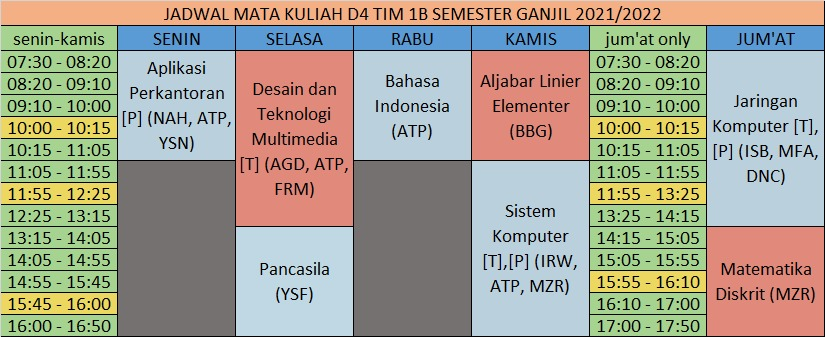
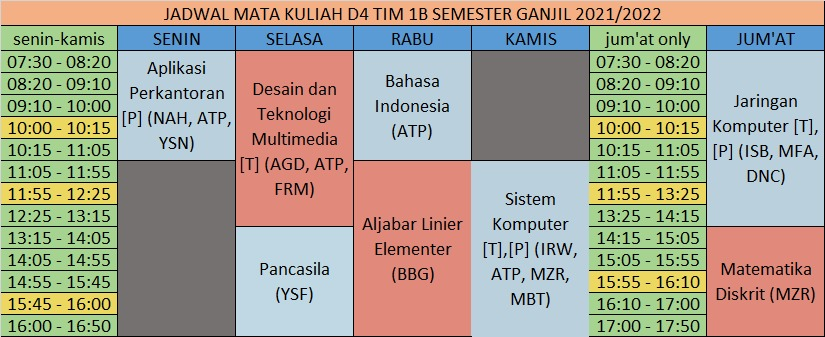
siskom

Changed region(s): [[0.4242, 0.1484, 0.7273, 1.0]]

diff --git a/docusaurus.config.js b/docusaurus.config.js
@@ -1,6 +1,7 @@
 const lightCodeTheme = require('prism-react-renderer/themes/github');
 const darkCodeTheme = require('prism-react-renderer/themes/dracula');
-
+const math = require('remark-math');
+const katex = require('rehype-katex');
 // With JSDoc @type annotations, IDEs can provide config autocompletion
 /** @type {import('@docusaurus/types').DocusaurusConfig} */
 (module.exports = {
@@ -20,6 +21,8 @@ const darkCodeTheme = require('prism-react-renderer/themes/dracula');
       /** @type {import('@docusaurus/preset-classic').Options} */
       ({
         docs: {
+          remarkPlugins: [math],
+          rehypePlugins: [katex],
           sidebarPath: require.resolve('./sidebars.js'),
           routeBasePath:'/',
           // Please change this to your repo.
@@ -71,4 +74,11 @@ const darkCodeTheme = require('prism-react-renderer/themes/dracula');
         darkTheme: darkCodeTheme,
       },
     }),
+    stylesheets: [
+      {
+          href: "https://cdn.jsdelivr.net/npm/katex@0.13.11/dist/katex.min.css",
+          integrity: "sha384-Um5gpz1odJg5Z4HAmzPtgZKdTBHZdw8S29IecapCSB31ligYPhHQZMIlWLYQGVoc",
+          crossorigin: "anonymous",
+      },
+  ],
 });

diff --git a/docs/delvin.md b/docs/delvin.md
@@ -17,13 +17,14 @@ D4 Teknik Informatika Multimedia
 |   M. Farman   Andrijasa, S.Kom., M.Kom.   |  MFA  |  https://wa.me/62811557369  |      KAJUR      |
 |         Irwansyah,   S.Kom, M.Cs          |  IRW  | https://wa.me/6281349613941 |     SEKJUR      |
 |      Anton   Topadang, S.Kom., M.Cs.      |  ATP  | https://wa.me/6281392407411 |   Kaprodi TIM   |
-|     Noor Alam   Hadiwijaya, ST,.M.Cs.     |  NAH  | https://wa.me/6282157147850 |   Kaprodi TI    |
+|     Noor Alam   Hadiwijaya, ST,.M.Cs.     |  NAH  | https://wa.me/6285820739768 |   Kaprodi TI    |
 |      Bambang   Cahyono, S.Pd., M.Kom      |  BBG  | https://wa.me/6285250675384 |   Kaprodi TK    |
 | Farindika   Metandi, BCompSc., MM., M.Cs. |  FRM  | https://wa.me/6285246023808 | Kalab Software  |
 |       Yusni Nyura,   S.Kom., M.Kom        |  YSN  | https://wa.me/6281350431910 |      Dosen      |
 |            Agusdi   Syafrizal             |  AGD  | https://wa.me/6282176766686 |      Dosen      |
-|           Dr. HM. Yusuf,   M.AP           |  YSF  | https://wa.me/6281347878633 | Dosen Pancasila |
+|           Dr. HM.   Yusuf, M.AP           |  YSF  | https://wa.me/6281347878633 | Dosen Pancasila |
 |       M. Zainul   Rohman, SST., MT.       |  MZR  | https://wa.me/6281255550523 |      Dosen      |
 |           Istia Budi,   ST., MM           |  ISB  | https://wa.me/628152001234  | Dosen Industri  |
 |      Damar   Nucahyono, ST., M.Eng.       |  DNC  | https://wa.me/6281229504888 |      Dosen      |
+|      Muhammad   Bagus Bintang Timur       |  MBT  | https://wa.me/6285754532470 |      dosen      |
 :::

diff --git a/docs/📐Aljabar Linear Elementer/Intro.md b/docs/📐Aljabar Linear Elementer/Intro.md
@@ -1,0 +1,19 @@
+# Aljabar Linear Elementer 📐
+
+:::note Nama dosen
+Bambang Cahyono, S.Pd., M.Kom
+:::
+## A. Integral
+>Integral adalah operasi matematika yang merupakan anti, kebalikan, atau invers dari operasi turunan.
+
+:::info rumus dasar integral
+- $\int a\, dx = ax+c$
+- $\int x^n\, dx ={x^n+1 \over n+1}\, + c$
+- $\int x^-1\, dx = ln |x|+c$
+:::
+
+## 1. Integral Tak tentu
+> Integral tak tentu adalah bentuk integral yang hasilnya berupa fungsi dalam variabel tertentu dan masih memuat konstanta integrasi.
+
+
+

diff --git a/docs/📓Bahasa Indonesia/intro.md b/docs/📓Bahasa Indonesia/intro.md
@@ -1,4 +1,4 @@
-# BAHASA INDONESIA
+# Bahasa Indonesia
 
 :::note nama dosen
 Anton Topadang, S.Kom, M.Cs

diff --git a/docs/⚖Pancasila/intro.md b/docs/⚖Pancasila/intro.md
@@ -1,4 +1,4 @@
-# PANCASILA
+# Pancasila
 :::note Nama dosen
 Dr. HM. Yusuf, M.AP
 :::
